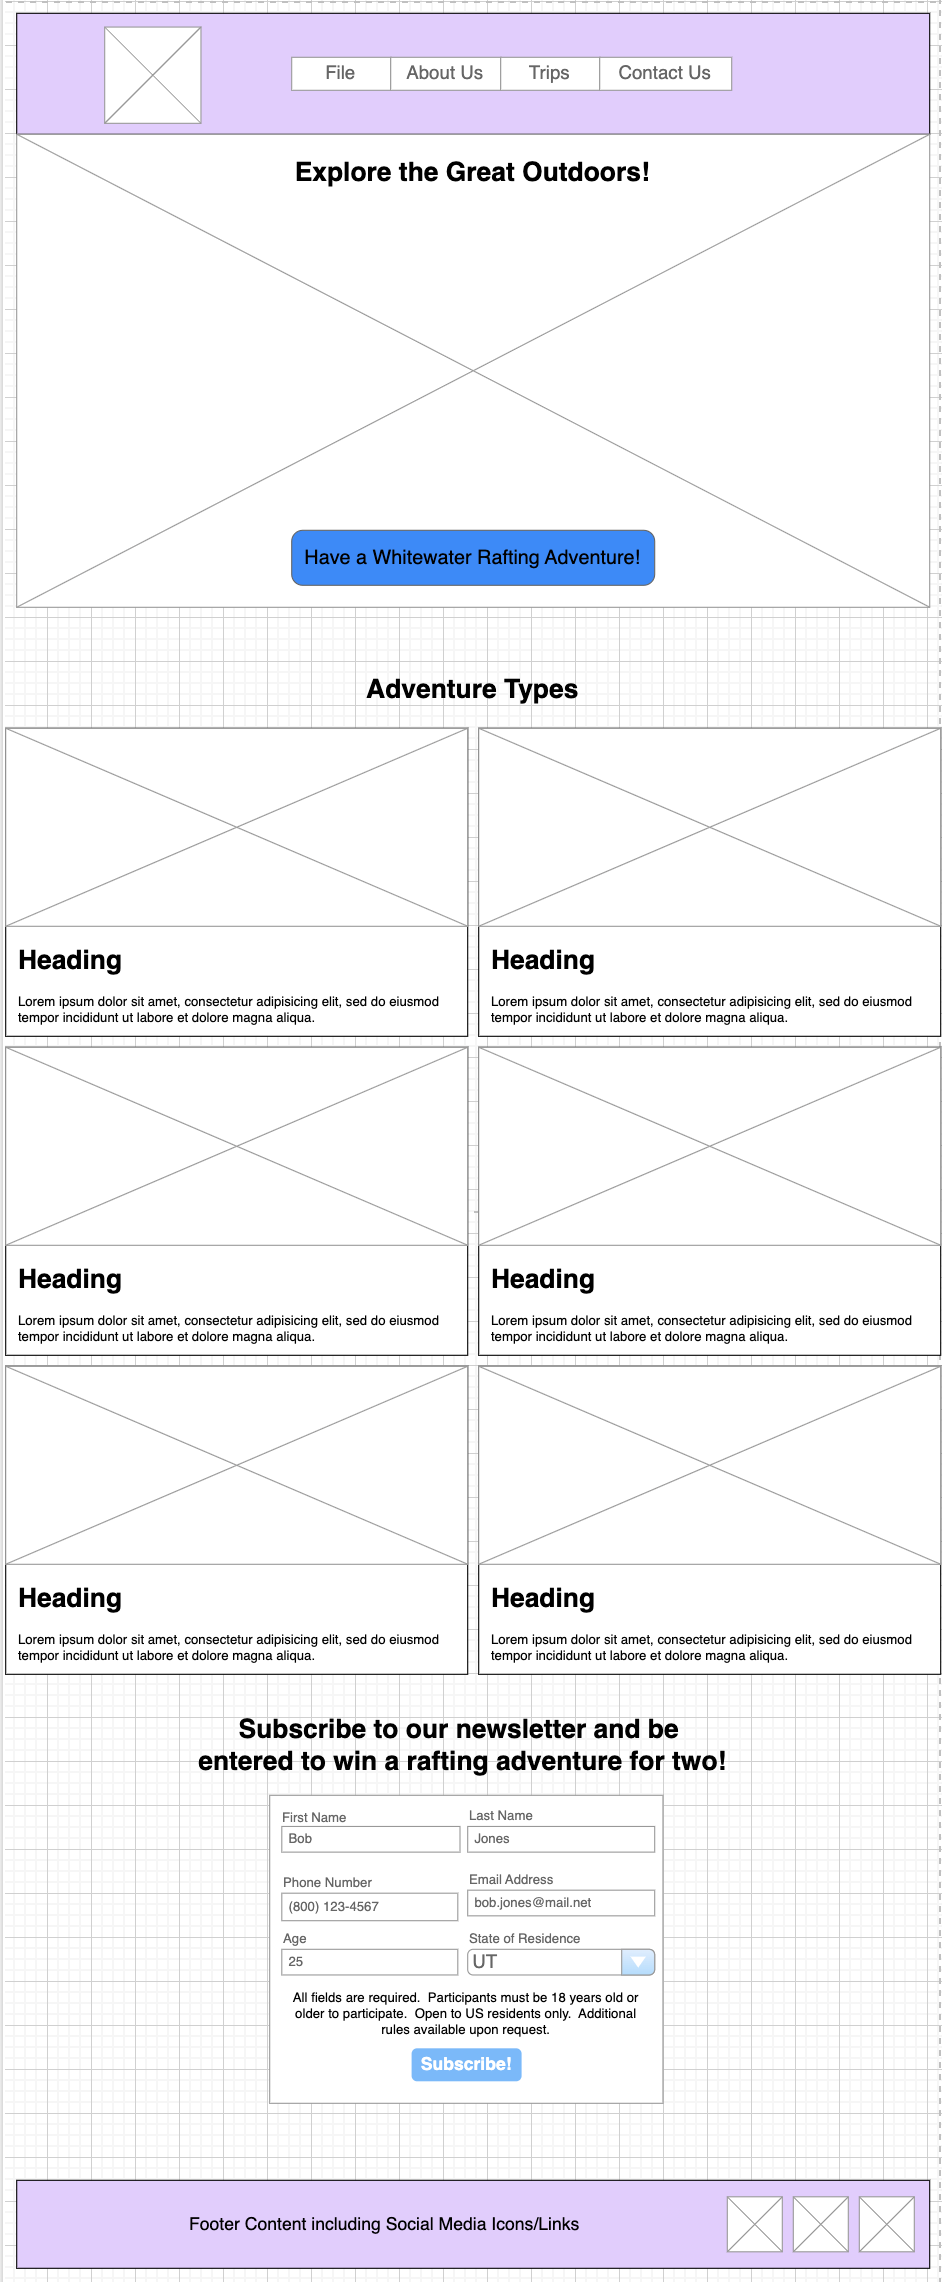
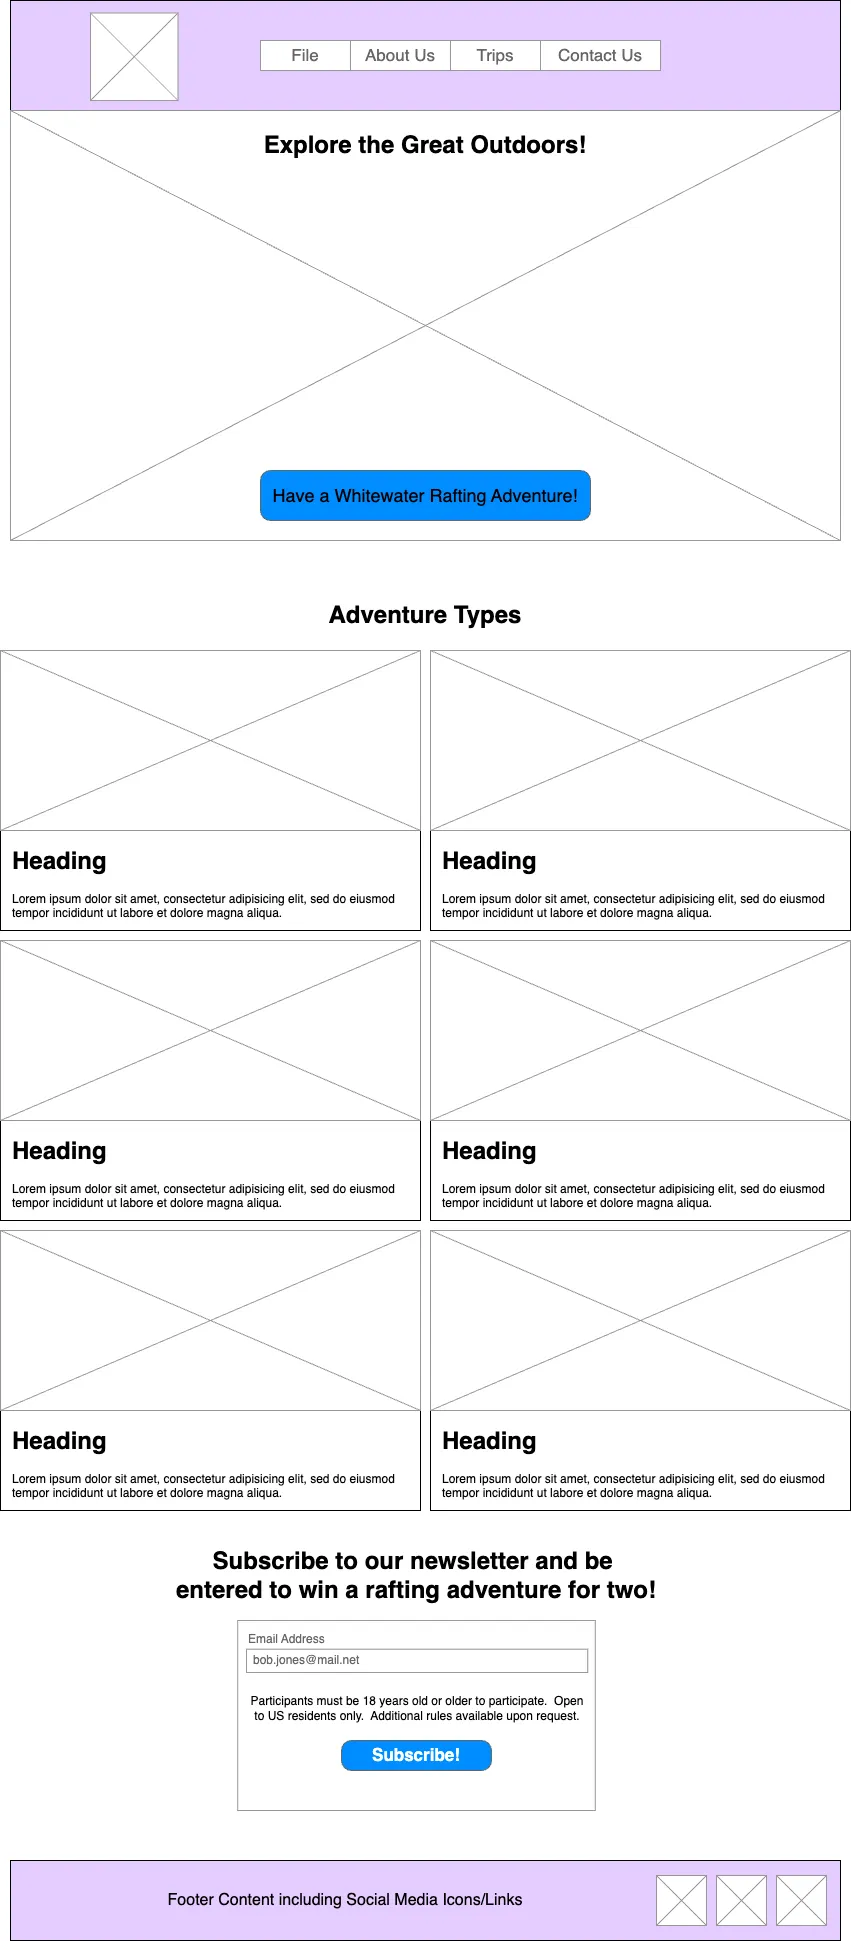
changed the newsletter form

Changed region(s): [[0.0, 0.0, 1.0, 1.0], [0.4583, 0.1546, 0.5499, 0.1855], [0.9166, 0.2473, 0.9471, 0.2782]]

diff --git a/wwr/index.html b/wwr/index.html
@@ -75,83 +75,11 @@
             </section>
             <form class="newsletter_form">
                 <h2>Subscribe to our newsletter and be entered to win a rafting adventure for two!</h2>
-                <div class="form-item grid_column_1">
-                    <label for="first_name">First Name:</label>
-                    <input type="text" id="first_name" name="first_name">
-                </div>
-                <div class="form-item grid_column_2">
-                    <label for="last_name">Last Name:</label>
-                    <input type="text" id="last_name" name="last_name">
-                </div>
-                <div class="form-item grid_column_1">
-                    <label for="phone_number">Phone Number:</label>
-                    <input type="text" id="phone_number" name="phone_number">
-                </div>
-                <div class="form-item grid_column_2">
+                <div class="form-item">
                     <label for="email_address">Email Address:</label>
                     <input type="email" id="email_address" name="email_address">
                 </div>
-                <div class="form-item grid_column_1">
-                    <label for="age">Age:</label>
-                    <input type="number" id="age" name="age">
-                </div>
-                <div class="form-item grid_column_2">
-                    <label for="state_of_residence">State of Residence:</label>
-                    <select id="state_of_residence" name="state_of_residence">
-                        <option value="AL">Alabama</option>
-                        <option value="AK">Alaska</option>
-                        <option value="AZ">Arizona</option>
-                        <option value="AR">Arkansas</option>
-                        <option value="CA">California</option>
-                        <option value="CO">Colorado</option>
-                        <option value="CT">Connecticut</option>
-                        <option value="DE">Delaware</option>
-                        <option value="DC">District Of Columbia</option>
-                        <option value="FL">Florida</option>
-                        <option value="GA">Georgia</option>
-                        <option value="HI">Hawaii</option>
-                        <option value="ID">Idaho</option>
-                        <option value="IL">Illinois</option>
-                        <option value="IN">Indiana</option>
-                        <option value="IA">Iowa</option>
-                        <option value="KS">Kansas</option>
-                        <option value="KY">Kentucky</option>
-                        <option value="LA">Louisiana</option>
-                        <option value="ME">Maine</option>
-                        <option value="MD">Maryland</option>
-                        <option value="MA">Massachusetts</option>
-                        <option value="MI">Michigan</option>
-                        <option value="MN">Minnesota</option>
-                        <option value="MS">Mississippi</option>
-                        <option value="MO">Missouri</option>
-                        <option value="MT">Montana</option>
-                        <option value="NE">Nebraska</option>
-                        <option value="NV">Nevada</option>
-                        <option value="NH">New Hampshire</option>
-                        <option value="NJ">New Jersey</option>
-                        <option value="NM">New Mexico</option>
-                        <option value="NY">New York</option>
-                        <option value="NC">North Carolina</option>
-                        <option value="ND">North Dakota</option>
-                        <option value="OH">Ohio</option>
-                        <option value="OK">Oklahoma</option>
-                        <option value="OR">Oregon</option>
-                        <option value="PA">Pennsylvania</option>
-                        <option value="RI">Rhode Island</option>
-                        <option value="SC">South Carolina</option>
-                        <option value="SD">South Dakota</option>
-                        <option value="TN">Tennessee</option>
-                        <option value="TX">Texas</option>
-                        <option value="UT">Utah</option>
-                        <option value="VT">Vermont</option>
-                        <option value="VA">Virginia</option>
-                        <option value="WA">Washington</option>
-                        <option value="WV">West Virginia</option>
-                        <option value="WI">Wisconsin</option>
-                        <option value="WY">Wyoming</option>
-                    </select>
-                </div>
-                <h3>All fields are required.  Participants must be 18 years old or older to participate.  Open to US residents only.  Additional rules available upon request.</h3>
+                <h3>Participants must be 18 years old or older to participate.  Open to US residents only.  Additional rules available upon request.</h3>
                 <button type="submit">Subscribe!</button>
             </form>
         </main>

diff --git a/wwr/styles/rafting.css b/wwr/styles/rafting.css
@@ -250,6 +250,8 @@ a:hover {
 }
 
 .newsletter_form .form-item {
+    grid-column: 1 / span 2;
+    width: 100%;
     display: grid;
     grid-template-columns: 1fr;
 }
